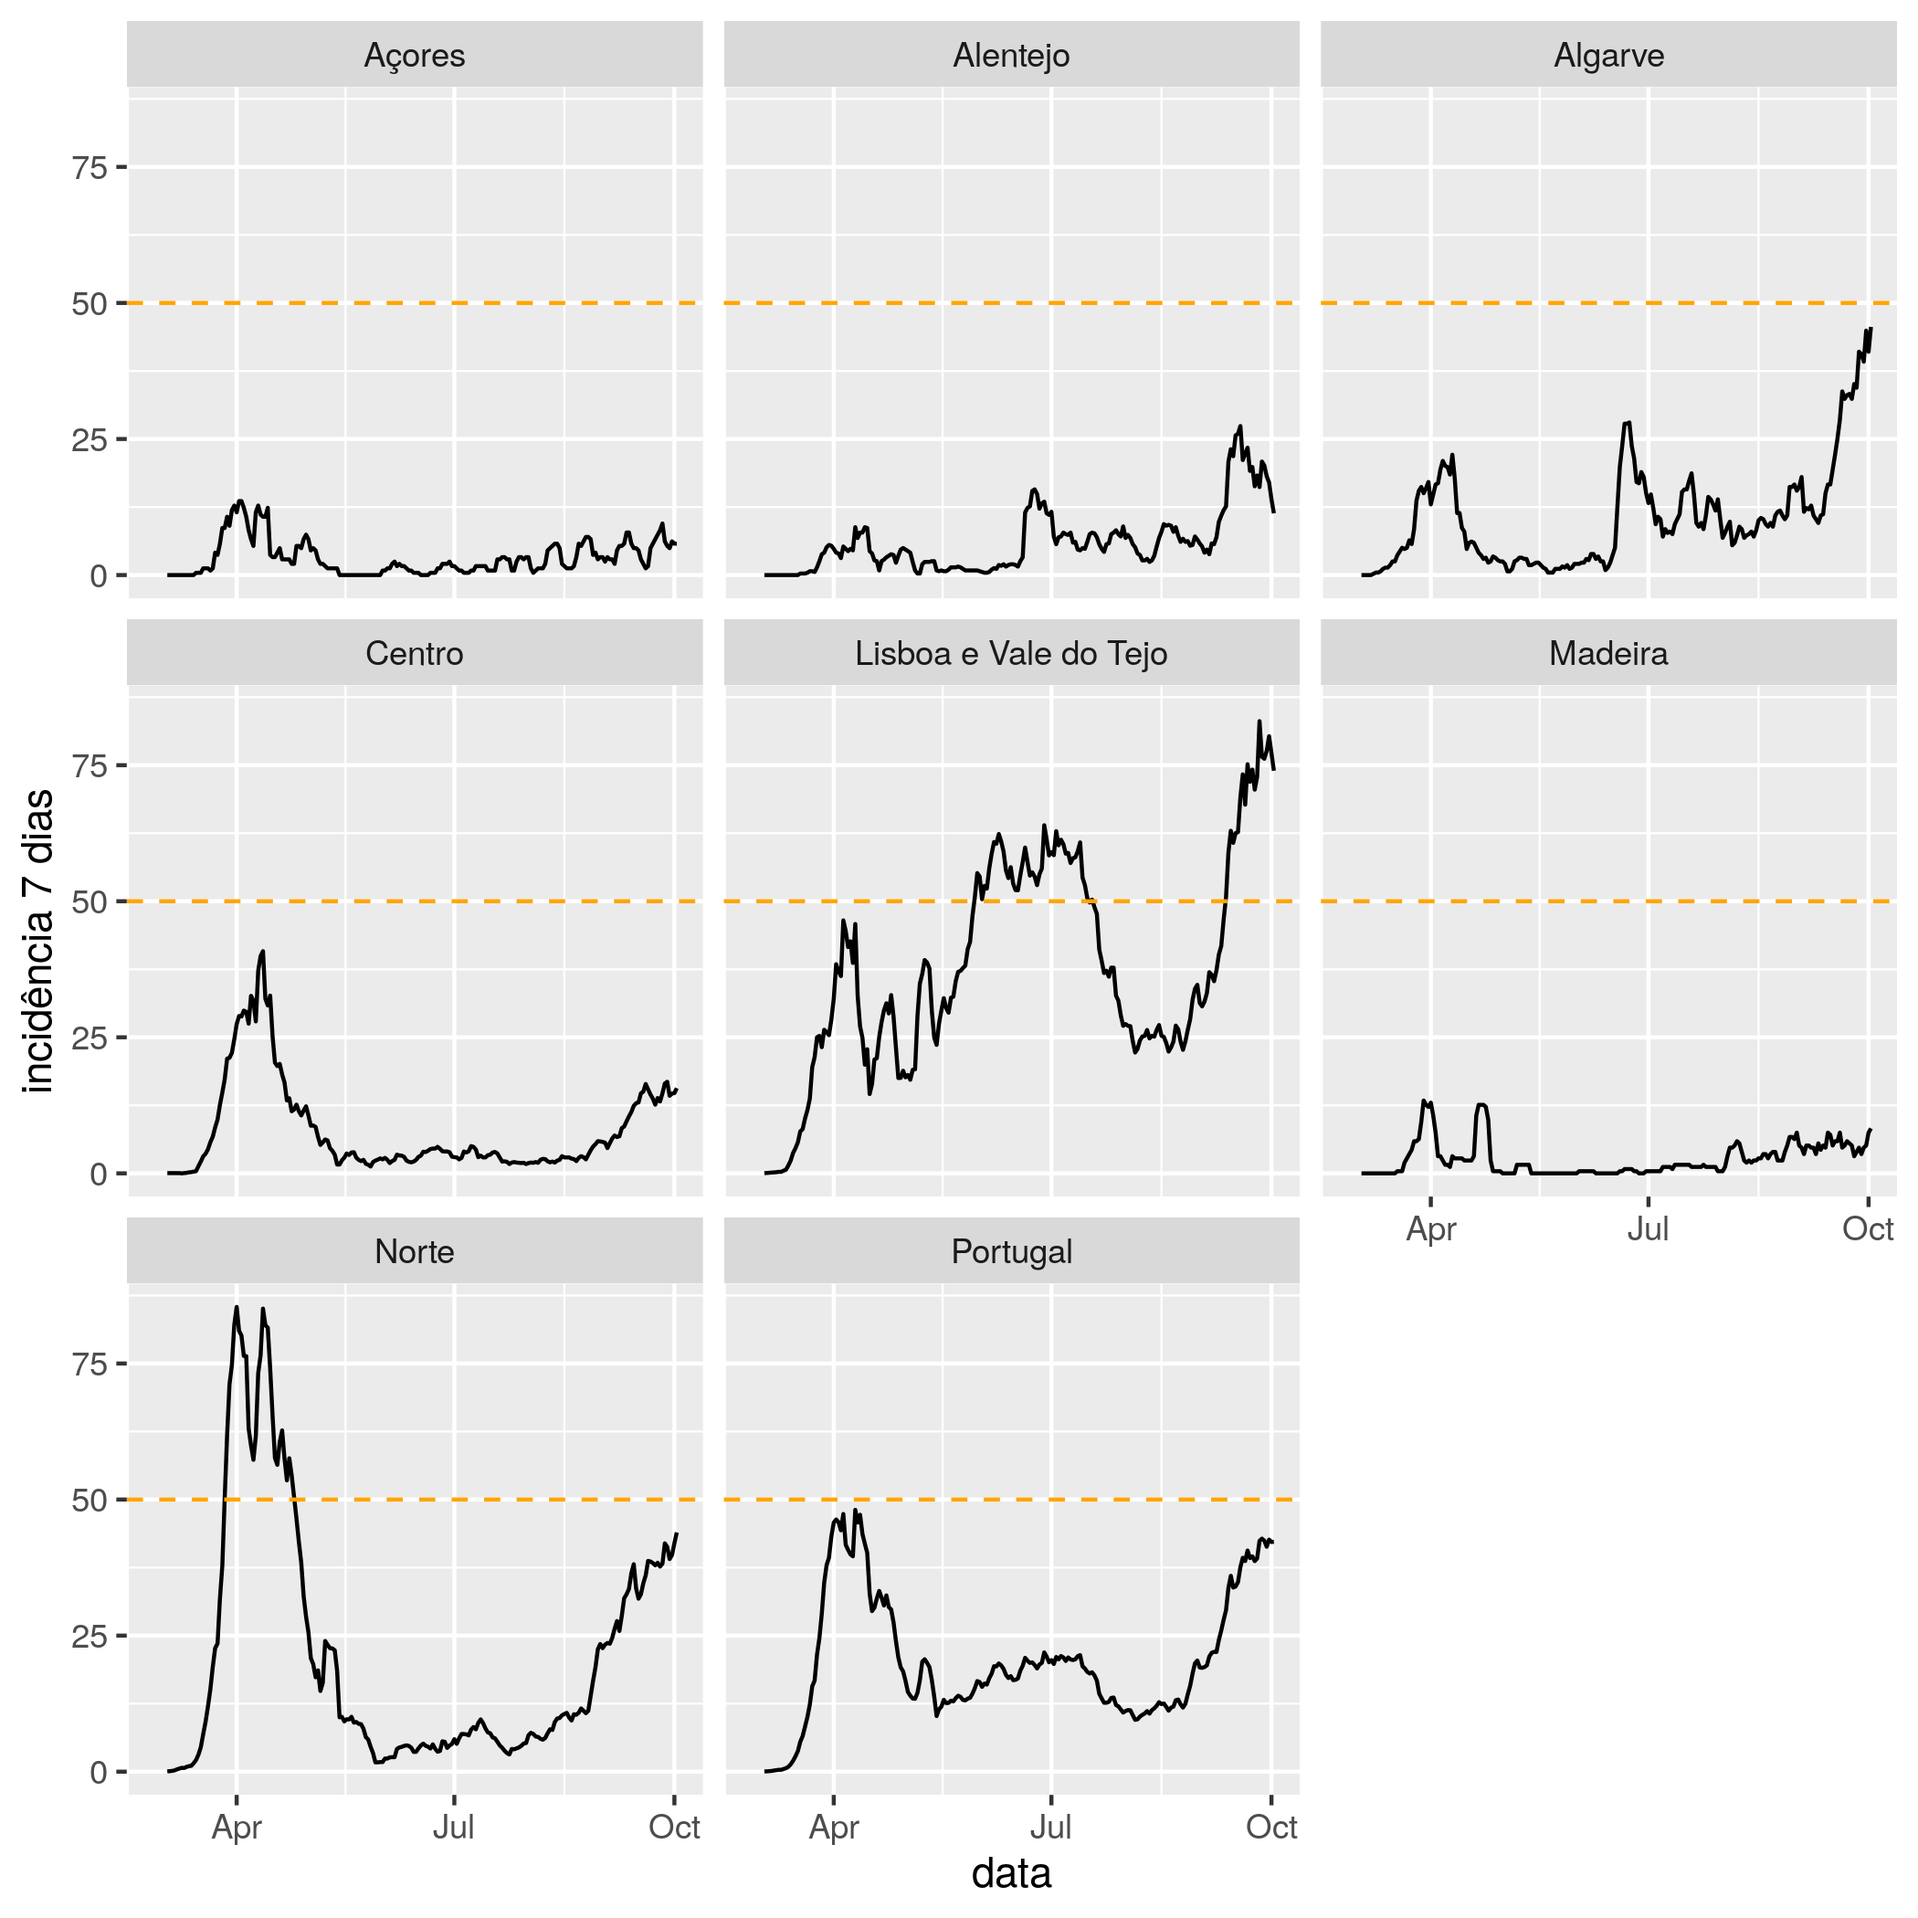
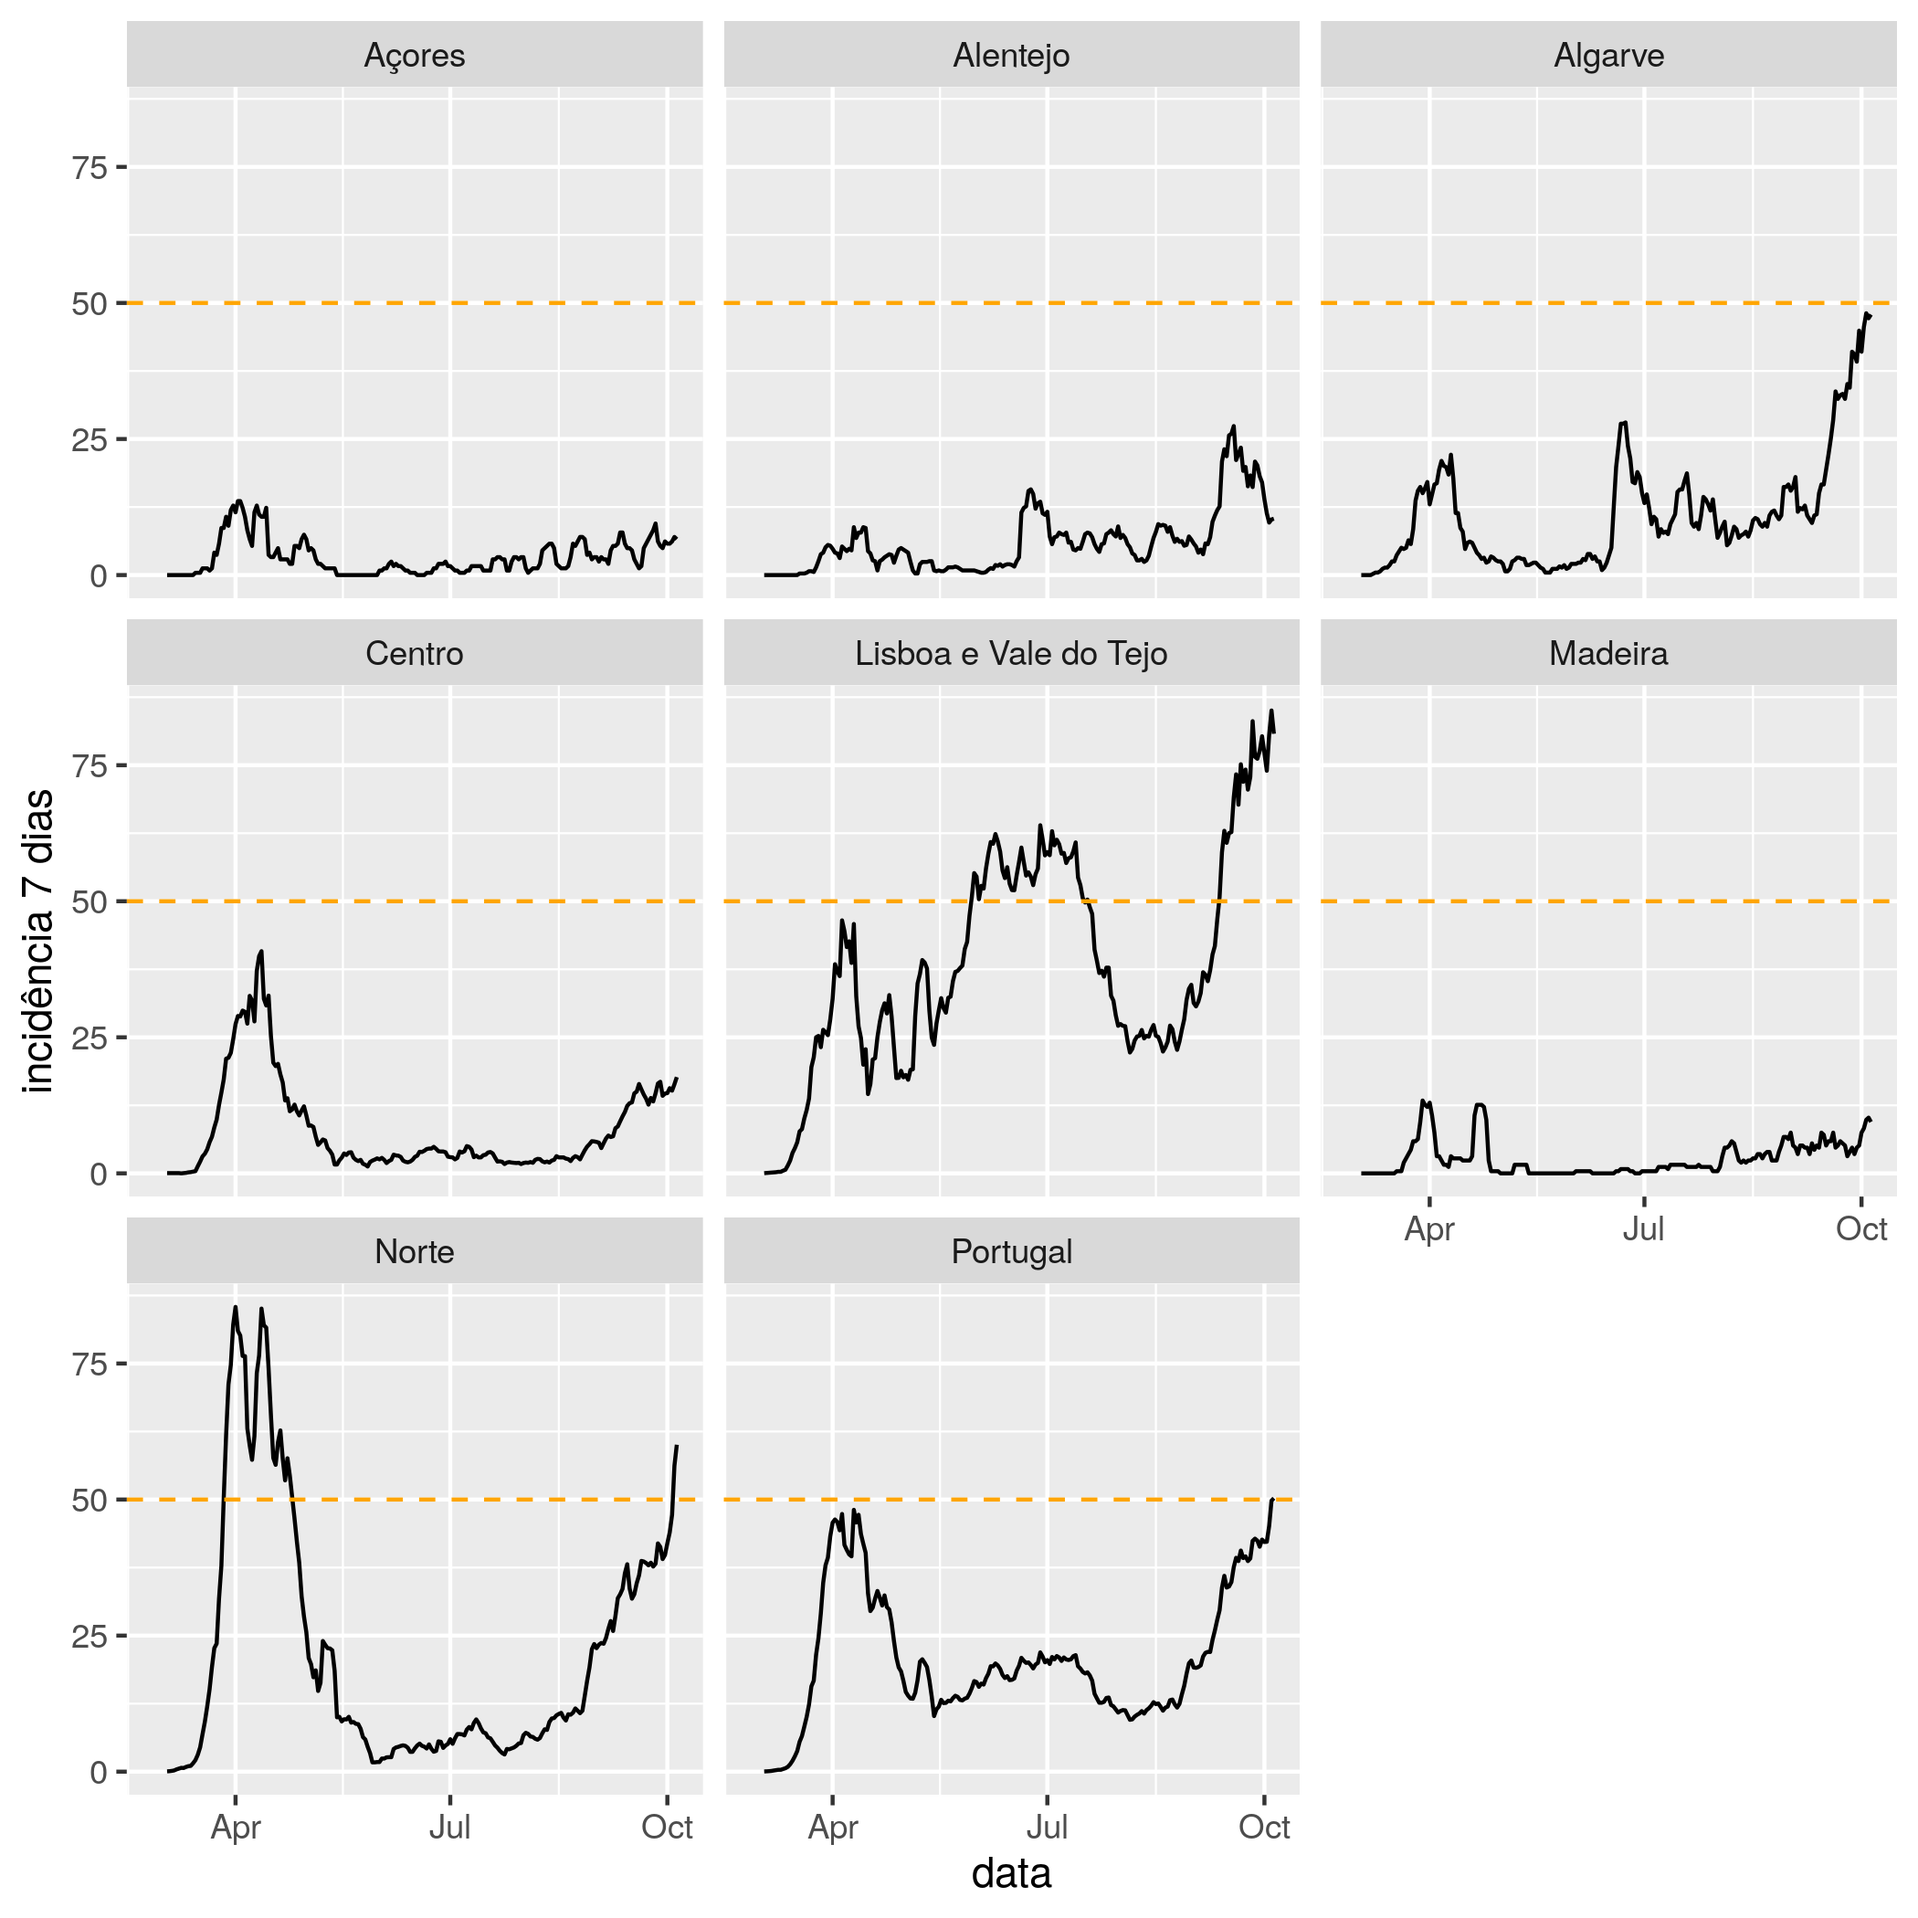
dados fim de semana?

diff --git a/README.md b/README.md
@@ -1,7 +1,7 @@
 # Contexto
 A incidência por 100000 habitantes em 7 dias é o valor de referência para decretar regiões de risco pelas autoridades de saúde alemãs (valor charneira é 50, ie LVT já é região de risco). Gráficos atualizados diariamente. Para ajudar quem quer viajar para a Alemanha ou vir passar férias a Portugal.
 
-Dados mais recentes de 2020-10-02.
+Dados mais recentes de 2020-10-05.
 
 # Incidência por 100000 habitantes em 7 dias
 ## Últimos 30 dias
